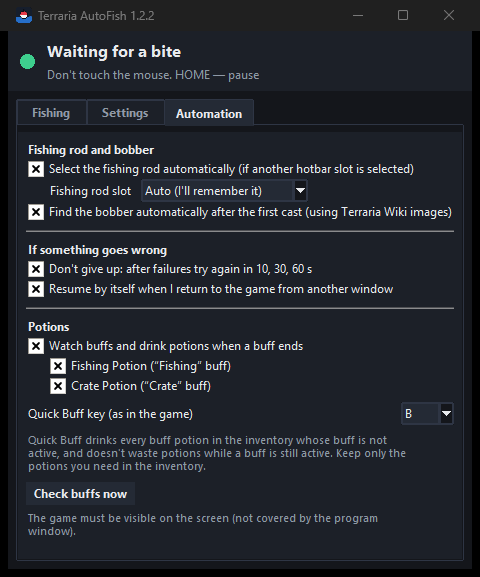
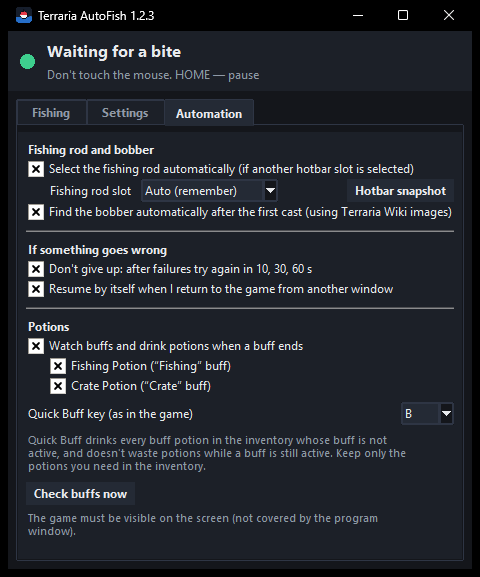
Version 1.2.3: hotbar snapshot for tuning fishing rod recognition
- New "Hotbar snapshot" button on the Automation tab: in 3 s saves the
  in-game hotbar pixel for pixel to the hotbar folder, together with how
  much each slot looks like a fishing rod.
- Shorter rod slot label so the window keeps its size.

Changed region(s): [[0.0, 0.0, 1.0, 0.0624], [0.375, 0.312, 0.6562, 0.3744], [0.7188, 0.312, 0.9375, 0.3432]]

diff --git a/app.py b/app.py
@@ -25,7 +25,7 @@ import i18n
 from i18n import tr
 
 APP = "Terraria AutoFish"
-VERSION = "1.2.2"
+VERSION = "1.2.3"
 # Портативная версия: рядом с программой лежит portable.txt — всё хранится в папке программы
 PORTABLE = os.path.exists(os.path.join(af.HERE, "portable.txt"))
 CFG_DIR = (os.path.join(af.HERE, "settings") if PORTABLE
@@ -585,12 +585,16 @@ class App:
         row = ttk.Frame(box, style="Card.TFrame")
         row.pack(fill="x", padx=(22, 0))
         ttk.Label(row, text=tr("Слот удочки"), style="Card.TLabel").pack(side="left")
-        slots = [tr("Авто (запомню сам)")] + [str(i) for i in (1, 2, 3, 4, 5, 6, 7, 8, 9, 0)]
+        slots = [tr("Авто (запомню)")] + [str(i) for i in (1, 2, 3, 4, 5, 6, 7, 8, 9, 0)]
         self.rodslot_var = tk.StringVar(value=slots[0] if self.cfg["rod_slot"] == "auto" else str(self.cfg["rod_slot"]))
-        cb = ttk.Combobox(row, textvariable=self.rodslot_var, values=slots, state="readonly", width=24)
+        cb = ttk.Combobox(row, textvariable=self.rodslot_var, values=slots, state="readonly", width=19)
         cb.pack(side="left", padx=(8, 0))
         cb.bind("<<ComboboxSelected>>", lambda e: self.set_auto_opt(
             "rod_slot", "auto" if self.rodslot_var.get() == slots[0] else self.rodslot_var.get()))
+        # снимок хотбара — для настройки распознавания удочек; подпись появляется только после нажатия
+        ttk.Button(row, text=tr("Снимок хотбара"), command=self.snap_hotbar).pack(side="right")
+        self.hb_row = row
+        self.hb_lbl = ttk.Label(box, text="", style="Muted.TLabel", wraplength=390, justify="left")
         check("auto_mark", tr("Сам находить поплавок после первого заброса (по картинкам с Terraria Wiki)"))
         ttk.Separator(box).pack(fill="x", pady=8)
 
@@ -672,6 +676,54 @@ class App:
                 status = self.fisher.check_buffs(sct, af.client_rect(hwnd), force=True) or {}
             want = {n: ok for n, ok in status.items()}
             self.q.put(("buff_test", {"text": self.buff_text(want) if want else tr("Не выбрано ни одного зелья.")}))
+        threading.Thread(target=work, daemon=True).start()
+
+    def show_hb(self, text):
+        self.hb_lbl.config(text=text)
+        self.hb_lbl.pack(anchor="w", padx=(22, 0), after=self.hb_row)
+
+    def snap_hotbar(self):
+        """Сохранить хотбар из игры как есть (пиксель в пиксель) — по таким снимкам настраивается
+        распознавание удочек. 3 секунды — чтобы переключиться в игру и окно программы не мешало."""
+        self.show_hb(tr("Переключитесь в игру — снимок через 3 с…"))
+
+        def work():
+            import mss
+            import hotbar
+            time.sleep(3)
+            hwnd = af.find_terraria()
+            if not hwnd:
+                self.q.put(("hb_test", {"text": tr("Окно Terraria не найдено — игра запущена?")}))
+                return
+            with (getattr(mss, "MSS", None) or mss.mss)() as sct:
+                frame = self.fisher.hotbar_frame(sct, af.client_rect(hwnd))
+            folder = os.path.join(af.HERE, "hotbar")
+            name = time.strftime("hotbar_%Y%m%d_%H%M%S")
+            try:
+                af.save_png(frame, os.path.join(folder, name + ".png"))
+            except Exception as e:
+                self.q.put(("hb_test", {"text": tr("Не удалось сохранить снимок: %r") % e}))
+                return
+            sel = hotbar.selected_slot(frame)
+            if sel is None:
+                text = tr("Сохранено: %s. Выбранный (жёлтый) слот не виден — закройте инвентарь "
+                          "и повторите.") % os.path.join("hotbar", name + ".png")
+            else:
+                text = tr("Сохранено: %s. Выбран слот %d.") % (os.path.join("hotbar", name + ".png"),
+                                                               (sel[0] + 1) % 10)
+                r = self.fisher.rods.scores(frame) if self.fisher.rods else None
+                if r:
+                    out = [v for v, _ in r[1]]
+                    best = max(range(10), key=lambda i: out[i])
+                    text += " " + tr("Больше всего на удочку похож слот %d (%.2f).") % ((best + 1) % 10, out[best])
+                    try:
+                        with open(os.path.join(folder, name + ".txt"), "w", encoding="utf-8") as fh:
+                            fh.write("selected=%d scale=%.2f\n" % ((sel[0] + 1) % 10, sel[1]))
+                            for i, (v, k) in enumerate(r[1]):
+                                fh.write("slot %d: %.3f %s\n" % ((i + 1) % 10, v, k))
+                    except Exception:
+                        pass
+            self.q.put(("hb_test", {"text": text}))
         threading.Thread(target=work, daemon=True).start()
 
     # ---------- действия ----------
@@ -836,6 +888,8 @@ class App:
             self.show_buffs(d["status"])
         elif kind == "gear":
             self.show_gear(d)
+        elif kind == "hb_test":
+            self.show_hb(d["text"])
         elif kind == "buff_test":
             self.buff_test_lbl.config(text=d["text"])
         elif kind == "calib":

diff --git a/i18n.py b/i18n.py
@@ -267,12 +267,19 @@ EN = {
     "поплавок: %s": "bobber: %s",
     "Удочка: слот %d": "Rod: slot %d",
     " (задан)": " (set)",
+    "Снимок хотбара": "Hotbar snapshot",
+    "Переключитесь в игру — снимок через 3 с…": "Switch to the game — snapshot in 3 s…",
+    "Не удалось сохранить снимок: %r": "Couldn't save the snapshot: %r",
+    "Сохранено: %s. Выбранный (жёлтый) слот не виден — закройте инвентарь и повторите.":
+        "Saved: %s. The selected (yellow) slot isn't visible — close the inventory and try again.",
+    "Сохранено: %s. Выбран слот %d.": "Saved: %s. Selected slot: %d.",
+    "Больше всего на удочку похож слот %d (%.2f).": "Slot %d looks most like a fishing rod (%.2f).",
     "Если в руках не удочка — возьмите её, нажмите %s и начните заново (%s на воде). Слот удочки запомню "
     "сам или задайте его на вкладке «Автоматика».":
         "If you're not holding the fishing rod, select it, press %s and start again (%s on the water). "
         "I'll remember the rod slot, or you can set it on the Automation tab.",
     "Слот удочки": "Fishing rod slot",
-    "Авто (запомню сам)": "Auto (I'll remember it)",
+    "Авто (запомню)": "Auto (remember)",
     "Запомнил: удочка в слоте %d. Если в руках окажется другой предмет — возьму её сам.":
         "Remembered: the fishing rod is in slot %d. If another item gets selected, I'll switch back to it.",
     "Похоже, удочка в слоте %d (по картинке) — беру её.": "The fishing rod seems to be in slot %d (by its image) — taking it.",

diff --git a/installer.py b/installer.py
@@ -14,7 +14,7 @@ from tkinter import filedialog, ttk
 import setup_core as sc
 from i18n import system_lang
 
-VERSION = "1.2.2"
+VERSION = "1.2.3"
 LANG = system_lang()
 TEXT = {
     "title": ("Установка Terraria AutoFish %s", "Terraria AutoFish %s Setup"),

diff --git a/README.md b/README.md
@@ -108,6 +108,7 @@ does not take focus away from the game.
 |---|---|
 | Select the fishing rod automatically | Before every cast, if another hotbar slot is selected, the program presses the number key of the rod's slot |
 | Fishing rod slot | **Auto:** the program remembers the slot from which a cast actually produced a bobber, and keeps it between launches (just hold the rod the first time). If after switching to that slot no bobber appears, the slot is forgotten and learned again. Or choose the slot number yourself |
+| Hotbar snapshot | In 3 s saves the in-game hotbar pixel for pixel to the `hotbar` folder next to the program (and how much each slot looks like a fishing rod) — send such snapshots to help tune fishing rod recognition |
 | Find the bobber automatically | After the first cast the program looks for the bobber between the character and the cast point using the Terraria Wiki bobber images. If it doesn't find it, it asks you to point at it as before |
 | Don't give up | After 3 failed casts in a row the program doesn't stop but waits 10, 30, then 60 s, goes back to the original mark and tries again. It pauses only if all attempts fail |
 | Resume when I return | If fishing paused because you switched to another window, it resumes 2 s after you return to the game |
